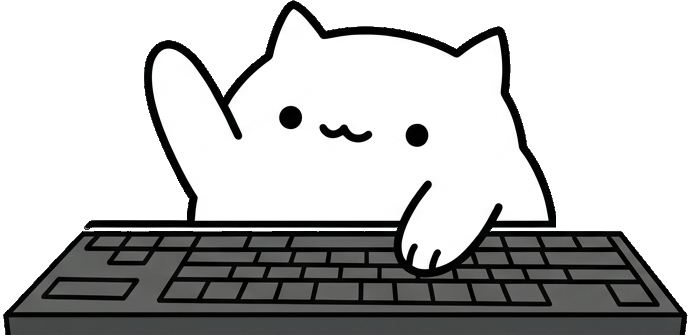
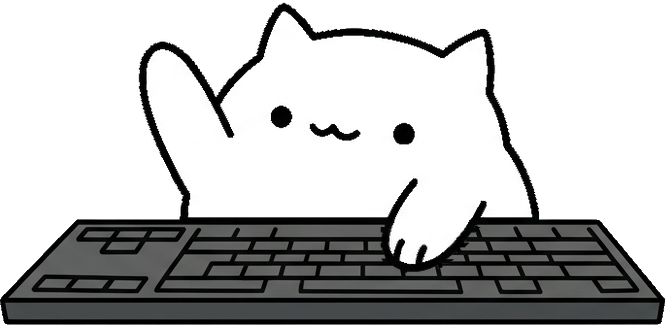
week-03: 5단계 타자에 맞춰 움직이고 횟수 세기
네 그림이 ① 의 키보드를 같이 쓰고, 고양이 크기와 자리를 ① 에 맞춤

diff --git a/week-03/cut.py b/week-03/cut.py
@@ -3,7 +3,7 @@
 from collections import deque
 from pathlib import Path
 
-from PIL import Image
+from PIL import Image, ImageFilter
 
 HERE = Path(__file__).parent
 SHEET = HERE / "art" / "sheet.png"
@@ -14,6 +14,10 @@ LINE_Y = (380, 387)  # 가로 칸 선
 
 WHITE = 200  # 이보다 밝으면 배경 흰색으로 본다
 EDGE = 120   # 지운 곳 옆에서 이보다 밝은 테두리 픽셀은 반쯤 투명하게
+DARK = 55    # 이보다 어두우면 검은 선
+GRAY = (60, 110)  # 키보드 회색 밝기
+OUTLINE = 9  # 고양이 흰 부분에서 이만큼 안의 검은 선은 고양이 테두리로 본다
+PAD = 20     # 고양이를 옮길 때 잘리지 않게 둘레에 두는 여백
 
 
 def cut_panels(sheet):
@@ -136,10 +140,158 @@ def remove_specks(img, size=300):
     return img
 
 
+def white_groups(img, size=500):
+    """흰색 덩어리(고양이 몸, 팔, 발) 자리를 표시한 마스크. 키보드에는 흰색이 없다."""
+    px = img.load()
+    w, h = img.size
+    mask = Image.new("L", img.size, 0)
+    mpx = mask.load()
+    seen = [[False] * h for _ in range(w)]
+    for sx in range(w):
+        for sy in range(h):
+            p = px[sx, sy]
+            if seen[sx][sy] or p[3] < 255 or bright(p) < WHITE:
+                continue
+            group = []
+            queue = deque([(sx, sy)])
+            seen[sx][sy] = True
+            while queue:
+                x, y = queue.popleft()
+                group.append((x, y))
+                for nx, ny in ((x + 1, y), (x - 1, y), (x, y + 1), (x, y - 1)):
+                    if 0 <= nx < w and 0 <= ny < h and not seen[nx][ny]:
+                        q = px[nx, ny]
+                        if q[3] == 255 and bright(q) >= WHITE:
+                            seen[nx][ny] = True
+                            queue.append((nx, ny))
+            if len(group) >= size:
+                for x, y in group:
+                    mpx[x, y] = 255
+    return mask
+
+
+def split_cat(img):
+    """그림을 고양이와 키보드로 나눈다. 고양이 = 흰 덩어리 + 그 둘레의 검은 테두리."""
+    px = img.load()
+    w, h = img.size
+    white = white_groups(img)
+    near = white.filter(ImageFilter.MaxFilter(OUTLINE * 2 + 1)).load()
+    wpx = white.load()
+    # 진한 검은 선 바로 옆의 흐린 픽셀만 테두리로 본다. 떨어져 있는 흐린 선(원래 그림에 남은 팔 자국)은 버린다
+    solid = Image.new("L", img.size, 0)
+    spx = solid.load()
+    for x in range(w):
+        for y in range(h):
+            p = px[x, y]
+            if p[3] == 255 and max(p[:3]) < DARK:
+                spx[x, y] = 255
+    by_line = solid.filter(ImageFilter.MaxFilter(5)).load()
+    cat = Image.new("RGBA", img.size, (0, 0, 0, 0))
+    keys = Image.new("RGBA", img.size, (0, 0, 0, 0))
+    cpx, kpx = cat.load(), keys.load()
+    for x in range(w):
+        for y in range(h):
+            p = px[x, y]
+            if p[3] == 0:
+                continue
+            # 흰 부분이거나, 흰 부분 가까이의 검은 선/흐린 테두리면 고양이
+            dark = max(p[:3]) < DARK and p[3] == 255
+            soft = p[3] < 255 and by_line[x, y]
+            if wpx[x, y] or (near[x, y] and (dark or soft)):
+                cpx[x, y] = p
+            else:
+                kpx[x, y] = p
+    return cat, keys
+
+
+def keyboard_anchor(keys):
+    """키보드 위치 기준점: 회색 키보드 윗면이 시작하는 줄과 가로 가운데."""
+    px = keys.load()
+    w, h = keys.size
+    gray = [
+        (x, y) for x in range(w) for y in range(h)
+        if px[x, y][3] == 255 and GRAY[0] <= bright(px[x, y]) <= GRAY[1]
+    ]
+    rows = {}
+    for x, y in gray:
+        rows[y] = rows.get(y, 0) + 1
+    top = min(y for y, n in rows.items() if n > 100)
+    xs = [x for x, _ in gray]
+    return (min(xs) + max(xs)) / 2, top
+
+
+def unify_keyboard(frames, bottoms):
+    """네 그림 모두 ① 의 키보드를 쓰고, 고양이는 ① 과 같은 크기·자리로 맞춘다."""
+    parts = [split_cat(f) for f in frames]
+    base_keys = parts[0][1]
+    base_x, base_y = keyboard_anchor(base_keys)
+    # ① 의 키보드 윗선보다 위(팔 둘레의 흐린 회색 등)는 키보드가 아니니 버린다
+    kpx = base_keys.load()
+    for x in range(base_keys.width):
+        for y in range(int(base_y) - 8):
+            kpx[x, y] = (0, 0, 0, 0)
+    # 고양이 크기 맞추기: 귀 끝부터 몸 아래(책상 선)까지 높이를 ① 에 맞추고,
+    # 몸 아래는 ① 과 같은 높이에, 입은 ① 과 같은 가로 자리에 둔다
+    base_top, base_bottom = parts[0][0].getbbox()[1], bottoms[0]
+    base_mouth = mouth_x(parts[0][0])
+    out = []
+    for (cat, _keys), bottom in zip(parts, bottoms):
+        top = cat.getbbox()[1]
+        scale = (base_bottom - base_top) / (bottom - top)
+        mouth = mouth_x(cat)
+        if scale != 1:
+            cat = cat.resize((round(cat.width * scale), round(cat.height * scale)), Image.LANCZOS)
+        dx = round(base_mouth - mouth * scale)
+        dy = round(base_bottom - bottom * scale)
+        canvas = Image.new("RGBA", (base_keys.width + 2 * PAD, base_keys.height + 2 * PAD), (0, 0, 0, 0))
+        canvas.alpha_composite(base_keys, (PAD, PAD))
+        canvas.alpha_composite(cat, (PAD + dx, PAD + dy))
+        print(f"  고양이 크기 {scale:.3f}배, 옮김 {(dx, dy)}")
+        out.append(canvas)
+    return out
+
+
+def mouth_x(cat):
+    """입(ω) 가운데의 가로 위치. 얼굴 안에서 가로 40~70픽셀짜리 검은 덩어리를 찾는다.
+    눈을 감은 ④ 는 눈도 이만큼 넓어서, 찾은 것 중 가운데 것을 입으로 본다."""
+    px = cat.load()
+    w, h = cat.size
+    seen = set()
+    found = []
+    for sx in range(w):
+        for sy in range(h):
+            p = px[sx, sy]
+            if (sx, sy) in seen or p[3] < 200 or max(p[:3]) > 80:
+                continue
+            group = []
+            queue = deque([(sx, sy)])
+            seen.add((sx, sy))
+            while queue:
+                x, y = queue.popleft()
+                group.append((x, y))
+                for nx, ny in ((x + 1, y), (x - 1, y), (x, y + 1), (x, y - 1)):
+                    if 0 <= nx < w and 0 <= ny < h and (nx, ny) not in seen:
+                        q = px[nx, ny]
+                        if q[3] >= 200 and max(q[:3]) <= 80:
+                            seen.add((nx, ny))
+                            queue.append((nx, ny))
+            xs = [x for x, _ in group]
+            ys = [y for _, y in group]
+            if 40 <= max(xs) - min(xs) <= 70 and max(ys) - min(ys) < 40 and len(group) < 1500:
+                found.append((min(xs) + max(xs)) / 2)
+    if not found:
+        raise ValueError("입을 찾지 못했어요")
+    found.sort()
+    return found[len(found) // 2]
+
+
 def main():
     sheet = Image.open(SHEET)
     frames = [clear_background(p) for p in cut_panels(sheet)]
+    # 몸 아래 = 책상 선 윗줄. 선을 지우기 전에 재 둔다
+    bottoms = [find_desk_line(f)[0] for f in frames]
     frames = [remove_specks(remove_desk_line(f)) for f in frames]
+    frames = unify_keyboard(frames, bottoms)
 
     # 네 그림을 같은 크기로: 네 그림에서 보이는 부분을 모두 담는 상자로 똑같이 자른다
     boxes = [f.getbbox() for f in frames]

diff --git a/week-03/pet.py b/week-03/pet.py
@@ -3,14 +3,38 @@
 import sys
 from pathlib import Path
 
-from PySide6.QtCore import QRect, Qt, QTimer
+from pynput import keyboard
+from PySide6.QtCore import QObject, QRect, Qt, QTimer, Signal
 from PySide6.QtGui import QAction, QIcon, QPixmap
 from PySide6.QtWidgets import QApplication, QLabel, QMenu, QSystemTrayIcon
 
 HERE = Path(__file__).parent
 ART = HERE / "art"
 
-WIDTH = 200  # 펫 가로 크기(픽셀)
+WIDTH = 200       # 펫 가로 크기(픽셀)
+PAW_UP_MS = 150   # 키를 누른 뒤 손을 다시 드는 데 걸리는 시간
+SLEEP_MS = 5000   # 이만큼 안 누르면 졸기
+
+# 그림 번호 (frame1~4.png 순서)
+IDLE, PAW_A, PAW_B, SLEEP = 0, 1, 2, 3
+
+
+class KeyCounter(QObject):
+    """키를 눌렀다는 사실만 알린다. 어떤 키인지는 받자마자 버리고 어디에도 남기지 않는다."""
+
+    pressed = Signal()
+
+    def __init__(self):
+        super().__init__()
+        # pynput 은 다른 스레드에서 부르므로 Signal 로 화면 쪽에 넘긴다
+        self.listener = keyboard.Listener(on_press=lambda _key: self.pressed.emit())
+        self.listener.daemon = True
+
+    def start(self):
+        self.listener.start()
+
+    def stop(self):
+        self.listener.stop()
 
 
 def load_frames(dpr):
@@ -36,11 +60,30 @@ class Pet(QLabel):
             | Qt.WindowTransparentForInput
         )
         self.setAttribute(Qt.WA_TranslucentBackground)
-        self.show_frame(0)
+        self.show_frame(IDLE)
+
+        self.next_paw = PAW_A
+        self.paw_up_timer = QTimer(self, singleShot=True, interval=PAW_UP_MS)
+        self.paw_up_timer.timeout.connect(self.paw_up)
+        self.sleep_timer = QTimer(self, singleShot=True, interval=SLEEP_MS)
+        self.sleep_timer.timeout.connect(lambda: self.show_frame(SLEEP))
+        self.sleep_timer.start()
 
     def show_frame(self, index):
+        self.current = index
         self.setPixmap(self.frames[index])
         self.adjustSize()
+
+    def on_key(self):
+        """키를 누를 때마다 ② ③ 을 번갈아 보여 주고, 졸던 중이면 깨어난다."""
+        self.show_frame(self.next_paw)
+        self.next_paw = PAW_B if self.next_paw == PAW_A else PAW_A
+        self.paw_up_timer.start()
+        self.sleep_timer.start()
+
+    def paw_up(self):
+        if self.current in (PAW_A, PAW_B):
+            self.show_frame(IDLE)
 
     def move_to_corner(self):
         """오른쪽 아래, 작업 표시줄 바로 위에 둔다."""
@@ -60,6 +103,7 @@ def make_tray(app):
     menu.addAction(quit_action)
 
     tray.setContextMenu(menu)
+    tray.setToolTip("0번")
     tray.show()
     return tray, menu
 
@@ -71,6 +115,20 @@ def main():
     pet.move_to_corner()
     pet.show()
     tray, menu = make_tray(app)
+
+    # 누른 횟수는 이 숫자 하나만 기억한다. 파일에 저장하지 않아서 끄면 사라진다.
+    count = {"n": 0}
+
+    def on_key():
+        count["n"] += 1
+        tray.setToolTip(f"{count['n']}번")
+        pet.on_key()
+
+    keys = KeyCounter()
+    # pynput 스레드에서 온 알림을 화면 스레드에서 처리하도록 줄 세운다
+    keys.pressed.connect(on_key, Qt.QueuedConnection)
+    keys.start()
+    app.aboutToQuit.connect(keys.stop)
 
     # 확인용: python pet.py --돌려보기 로 켜면 ①~④ 를 0.5초마다 돌려 보여 준다
     if "--돌려보기" in sys.argv:
